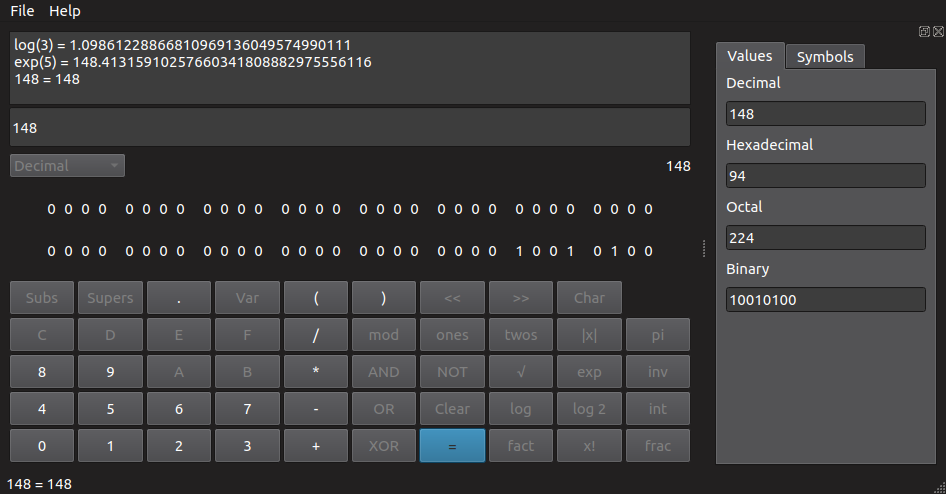
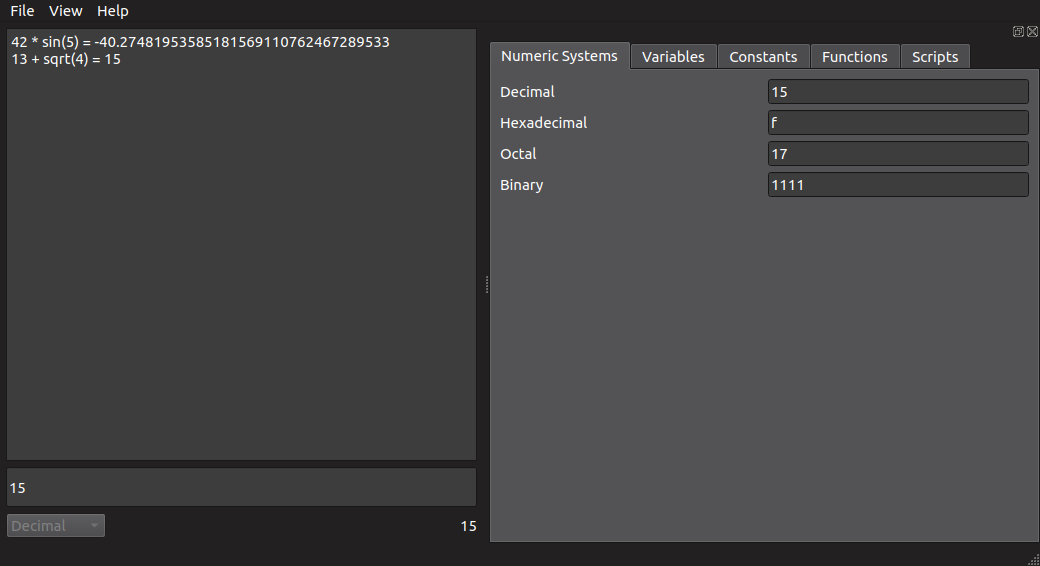
Set application version, Update readme, Update screenshot

diff --git a/src/cpp/gui/main.cpp b/src/cpp/gui/main.cpp
@@ -6,7 +6,7 @@ int main(int argc, char *argv[])
 {
     QApplication a(argc, argv);
     a.setApplicationDisplayName("Qt-Calculator");
-    a.setApplicationVersion("v0.0.3");
+    a.setApplicationVersion("v0.0.1");
 
     MainWindow w;
     w.show();

diff --git a/readme.md b/readme.md
@@ -1,8 +1,5 @@
 # Qt-Calculator
-A programmer calculator inspired by gnome-calculator.
-
-Features the bit toggle ui and keypad arrangement from the gnome-calculator(programmer mode), and a value display which lets you convert and view values in different numeral systems at once.
+A simple programmer calculator with embedded python interpreter and [exprtk](https://github.com/ArashPartow/exprtk) as expression parser.
 
 # Screenshots
-
 ![img](.docs/screenshot.png)
